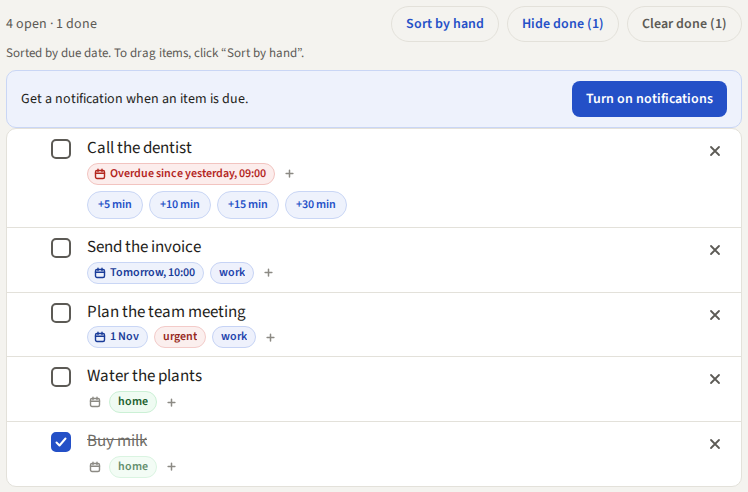
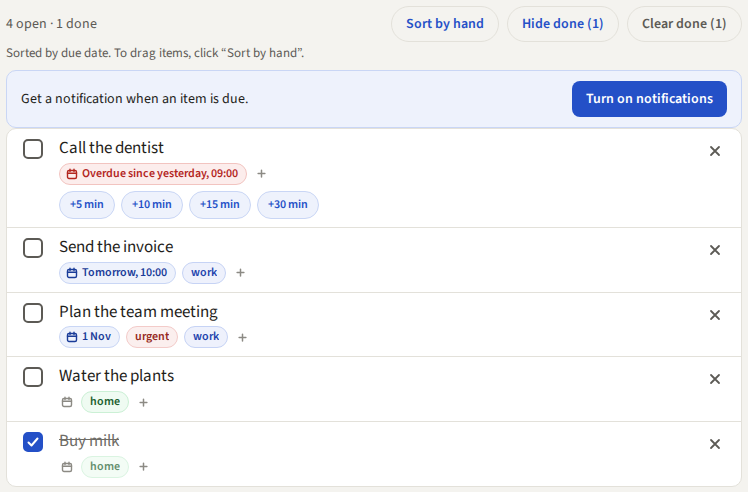
fix: no empty grip column in due date order
In due date order the grips and the empty grip column go away, so the
checkbox, the text and the chips move to the left; the × stays where it
is (canvas page "14 · Overdue at the top", "no empty space where the
grip was", option A).

diff --git a/internal/web/static/app.css b/internal/web/static/app.css
@@ -467,10 +467,11 @@ button.sw:focus-visible, .picker-name:focus-visible, .picker-back:focus-visible,
 .toolbar-left { display: flex; align-items: center; gap: 10px; flex-wrap: wrap; }
 .toolbar-right { display: flex; flex-wrap: wrap; gap: 8px; }
 /* The order of the list (canvas page "14 · Overdue at the top", board "sort
-   the list by due date", option A). In due date order the grips are hidden:
-   no drag and no arrow keys, and the space stays, so the rows do not move.
-   A gray line under the toolbar tells how to drag again. */
-#list-section[data-sort-due="true"] .grip { visibility: hidden; }
+   the list by due date", option A). In due date order the grips and the
+   empty grip column go away ("no empty space where the grip was", option
+   A): no drag and no arrow keys, and the checkbox moves to the left. A gray
+   line under the toolbar tells how to drag again. */
+#list-section[data-sort-due="true"] :is(.grip, .grip-space) { display: none; }
 .sort-hint { margin: 2px 0 8px; font-size: 13px; color: var(--muted); }
 /* "Clear done" (canvas page "3 · Done hidden"): gray, so it is quieter than
    the blue filter; red on hover and while its question is open. */

diff --git a/internal/web/sort_due_test.go b/internal/web/sort_due_test.go
@@ -139,12 +139,12 @@ func TestAPIItemsKeepHandOrder(t *testing.T) {
 	}
 }
 
-// In due date order the grips are hidden: no drag, no arrow keys, and the
-// rows keep their place. The toolbar buttons wrap on a narrow screen.
+// In due date order the grips and their column go away: no drag, no arrow keys, and the
+// checkbox moves to the left. The toolbar buttons wrap on a narrow screen.
 func TestSortDueCSS(t *testing.T) {
 	env := newTestEnv(t)
 	css := do(t, env.H, "GET", "/static/app.css", nil, nil).Body.String()
-	assertContains(t, css, `#list-section[data-sort-due="true"] .grip { visibility: hidden; }`,
+	assertContains(t, css, `#list-section[data-sort-due="true"] :is(.grip, .grip-space) { display: none; }`,
 		".sort-hint { margin: 2px 0 8px; font-size: 13px; color: var(--muted); }",
 		".toolbar-right { display: flex; flex-wrap: wrap; gap: 8px; }")
 }
